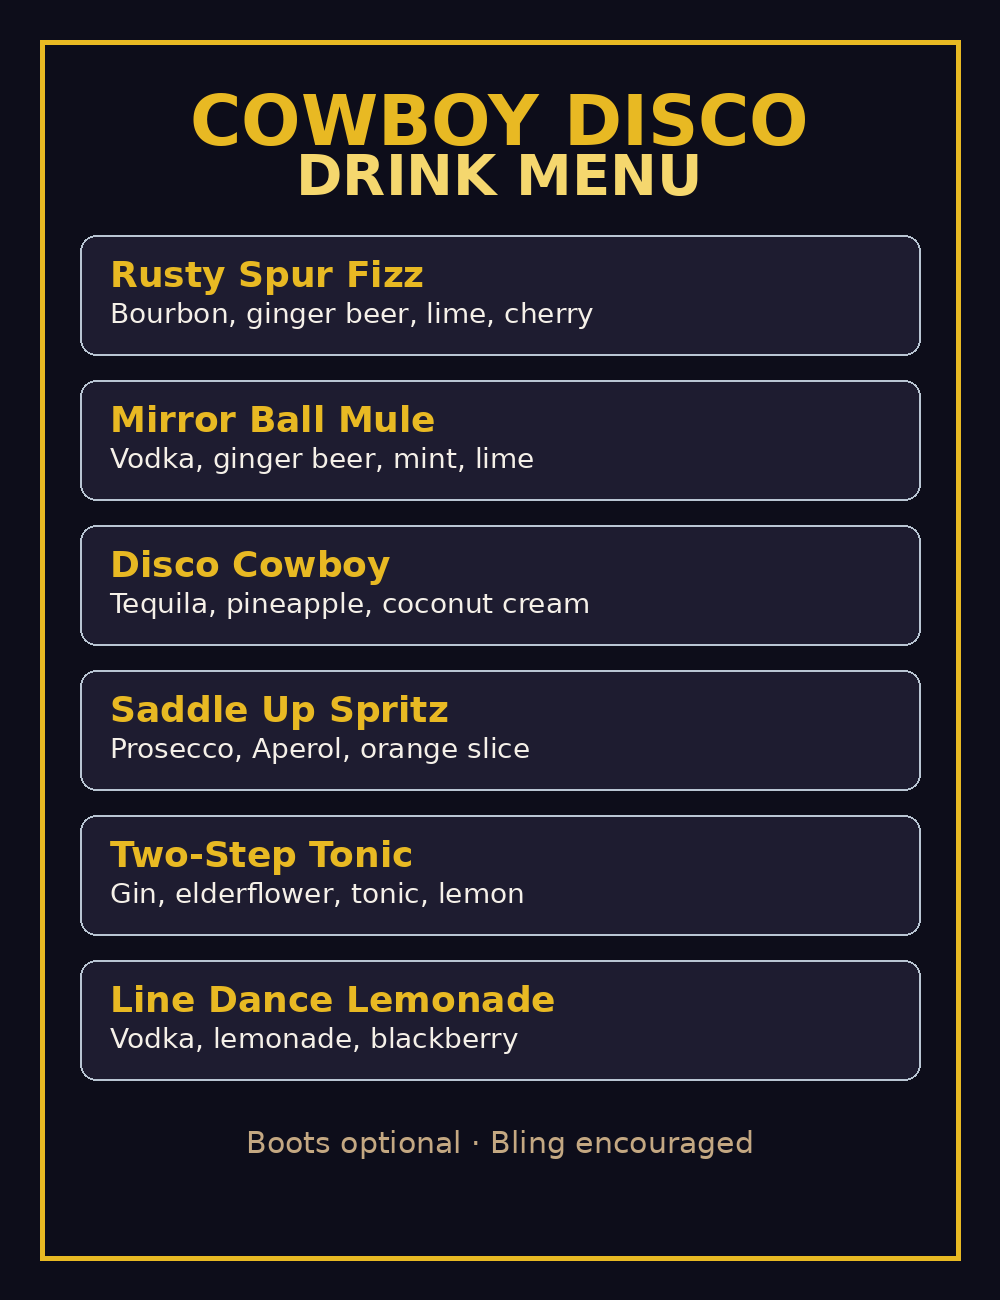
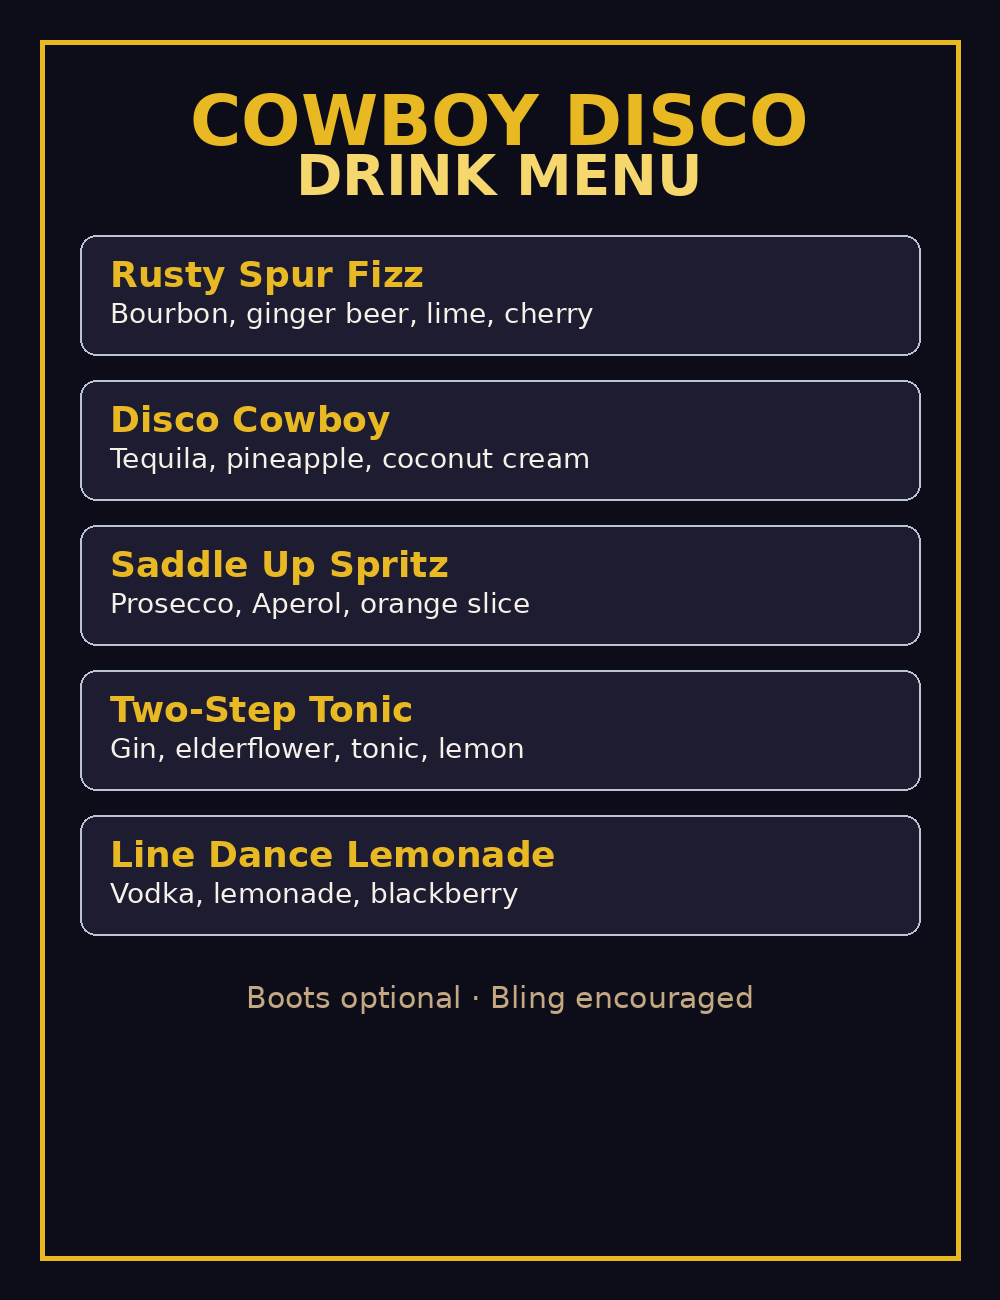
Remove the Mirror Ball Mule and the Social Moments subheading (#15)
* Remove the Mirror Ball Mule from the drink menu

Dropped from the House Cocktails list on the site and from the printed
drink-list generator, leaving five: Rusty Spur Fizz, Disco Cowboy, Saddle
Up Spritz, Two-Step Tonic, and Line Dance Lemonade.

Also updated the places that referenced it indirectly — the section lead
now says five house cocktails, the features blurb name-checks Disco Cowboy
in its place, and the cocktails photo alt text no longer lists it. Only
Rusty Spur Fizz carries the Signature badge now; I did not promote another
drink to fill the gap.

Regenerated drink-list.png and its jpg/webp variants; look photography and
the official poster verified byte-identical afterwards.

'Mirror Ball Mac' on the food labels is a dish, not the cocktail, and was
left alone.

Service worker cache v42.

https://claude.ai/code/session_01RQxgPetRB2BNnArUaiFyPr

* Drop the Social Moments subheading

Removed 'Editorial-worthy moments from wardrobe to last call — every
detail designed for the dance floor.' The section now runs eyebrow to
heading to grid; the cards carry their own captions, so the line was
restating what the imagery already says.

Service worker cache v43.

https://claude.ai/code/session_01RQxgPetRB2BNnArUaiFyPr

---------

diff --git a/index.html b/index.html
@@ -239,7 +239,7 @@
               </span>
               <div>
                 <span class="cosmic-features__title">Themed Cocktails All Night</span>
-                <span class="cosmic-features__desc">Rusty Spur Fizz, Mirror Ball Mule, and the full saloon drink menu from doors to close.</span>
+                <span class="cosmic-features__desc">Rusty Spur Fizz, Disco Cowboy, and the full saloon drink menu from doors to close.</span>
               </div>
             </li>
             <li class="cosmic-features__item">
@@ -425,7 +425,6 @@
         <header class="section__header">
           <p class="section__eyebrow">Social Moments</p>
           <h2>Capture the Night</h2>
-          <p>Editorial-worthy moments from wardrobe to last call — every detail designed for the dance floor.</p>
         </header>
         <div class="moments-grid reveal-stagger">
           <a class="moment-card" href="#dress-code">
@@ -708,14 +707,14 @@
         <header class="section__header">
           <p class="section__eyebrow">The Saloon Bar</p>
           <h2>Menu &amp; Drinks</h2>
-          <p>Six house cocktails poured from doors to last call — plus the full saloon spread in the party menu.</p>
+          <p>Five house cocktails poured from doors to last call — plus the full saloon spread in the party menu.</p>
         </header>
         <div class="menu-grid">
           <figure class="menu-card editorial-frame">
             <img
               class="menu-card__img editorial-img"
               src="/assets/editorial-cocktails.jpg"
-              alt="Cowboy Disco Party signature cocktails — Rusty Spur Fizz, Mirror Ball Mule, and more"
+              alt="Cowboy Disco Party signature cocktails — Rusty Spur Fizz and the house drink menu"
               width="1000"
               height="750"
               loading="lazy"
@@ -749,15 +748,6 @@
               </div>
               <p class="bar-menu__spec">Bourbon · Ginger Beer · Lime · Cherry</p>
               <p class="bar-menu__note">Western warmth with a sparkling finish.</p>
-            </li>
-            <li class="bar-menu__item">
-              <div class="bar-menu__row">
-                <h4 class="bar-menu__name">Mirror Ball Mule</h4>
-                <span class="bar-menu__leader" aria-hidden="true"></span>
-                <span class="bar-menu__badge">Signature</span>
-              </div>
-              <p class="bar-menu__spec">Vodka · Ginger Beer · Mint · Lime</p>
-              <p class="bar-menu__note">Studio 54 energy in a copper mug.</p>
             </li>
             <li class="bar-menu__item">
               <div class="bar-menu__row">

diff --git a/sw.js b/sw.js
@@ -1,4 +1,4 @@
-const CACHE = "cdp-v41";
+const CACHE = "cdp-v43";
 const ASSETS = [
   "/",
   "/index.html",

diff --git a/scripts/generate-cowboy-disco-assets.py b/scripts/generate-cowboy-disco-assets.py
@@ -169,7 +169,6 @@ def generate_drink_list() -> None:
 
     drinks = [
         ("Rusty Spur Fizz", "Bourbon, ginger beer, lime, cherry"),
-        ("Mirror Ball Mule", "Vodka, ginger beer, mint, lime"),
         ("Disco Cowboy", "Tequila, pineapple, coconut cream"),
         ("Saddle Up Spritz", "Prosecco, Aperol, orange slice"),
         ("Two-Step Tonic", "Gin, elderflower, tonic, lemon"),
